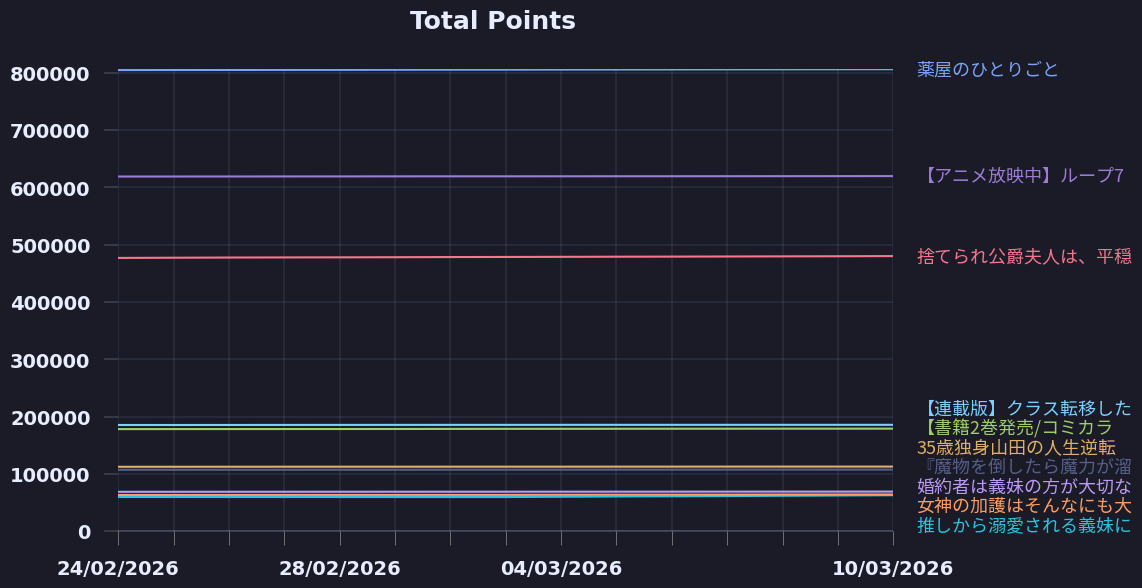
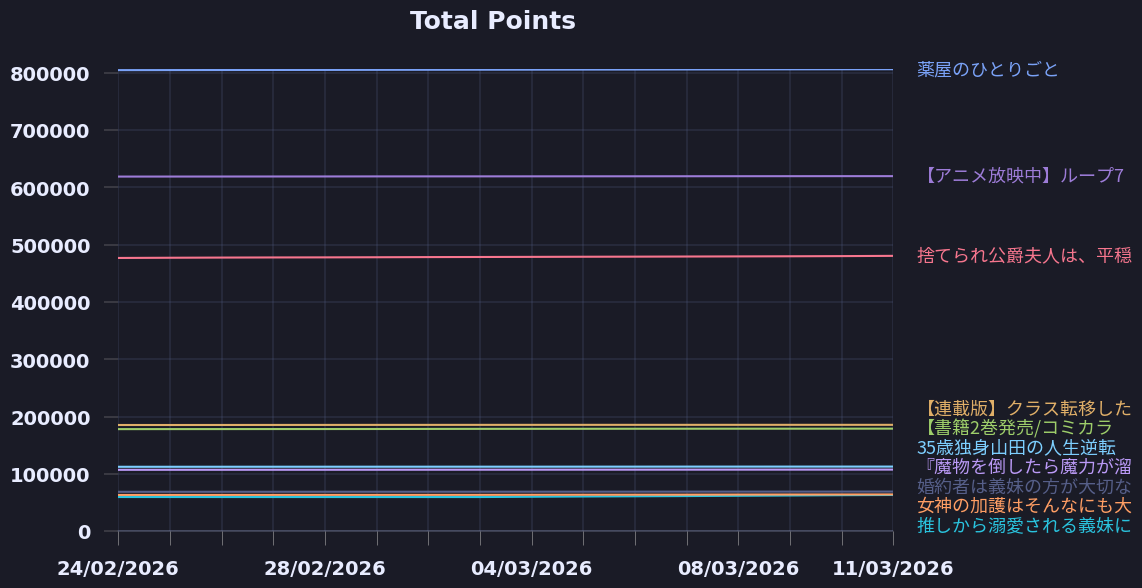
update plots

diff --git a/README.md b/README.md
@@ -14,7 +14,7 @@
 4. [女神の加護はそんなにも大事ですか？](https://ncode.syosetu.com/n3888io/)
 5. [【書籍2巻発売/コミカライズ連載中】悪役令嬢の矜持〜婚約者を奪い取って義姉を追い出した私は、どうやら今から破滅するようです。〜](https://ncode.syosetu.com/n0753hr/)
 6. [【アニメ放映中】ループ7回目の悪役令嬢は、元敵国で自由気ままな花嫁生活を満喫する](https://ncode.syosetu.com/n1784ga/)
-7. [婚約者は義妹の方が大切なので、ふたりが結婚できるようにしてあげようと思います](https://ncode.syosetu.com/n8269hq/)
-8. [『魔物を倒したら魔力が溜まる』というスキルを授かり「本末転倒！」と僻地に追放されましたが、おかげさまで廃墟のリノベーションがはかどります](https://ncode.syosetu.com/n2256im/)
-9. [35歳独身山田の人生逆転魔法　～現代社会に疲れた俺は異世界でスローライフを楽しむために現代で悪魔と戦って金儲けをしながら異世界村を発展させることにしました～](https://ncode.syosetu.com/n3115io/)
-10. [【連載版】クラス転移したら、なぜか引きこもりの俺まで異世界に連れてかれたんだが　～『自宅』のギフトが最強だったので、快適な異世界ライフを送ろうと思います～](https://ncode.syosetu.com/n3960io/)
+7. [『魔物を倒したら魔力が溜まる』というスキルを授かり「本末転倒！」と僻地に追放されましたが、おかげさまで廃墟のリノベーションがはかどります](https://ncode.syosetu.com/n2256im/)
+8. [婚約者は義妹の方が大切なので、ふたりが結婚できるようにしてあげようと思います](https://ncode.syosetu.com/n8269hq/)
+9. [【連載版】クラス転移したら、なぜか引きこもりの俺まで異世界に連れてかれたんだが　～『自宅』のギフトが最強だったので、快適な異世界ライフを送ろうと思います～](https://ncode.syosetu.com/n3960io/)
+10. [35歳独身山田の人生逆転魔法　～現代社会に疲れた俺は異世界でスローライフを楽しむために現代で悪魔と戦って金儲けをしながら異世界村を発展させることにしました～](https://ncode.syosetu.com/n3115io/)
